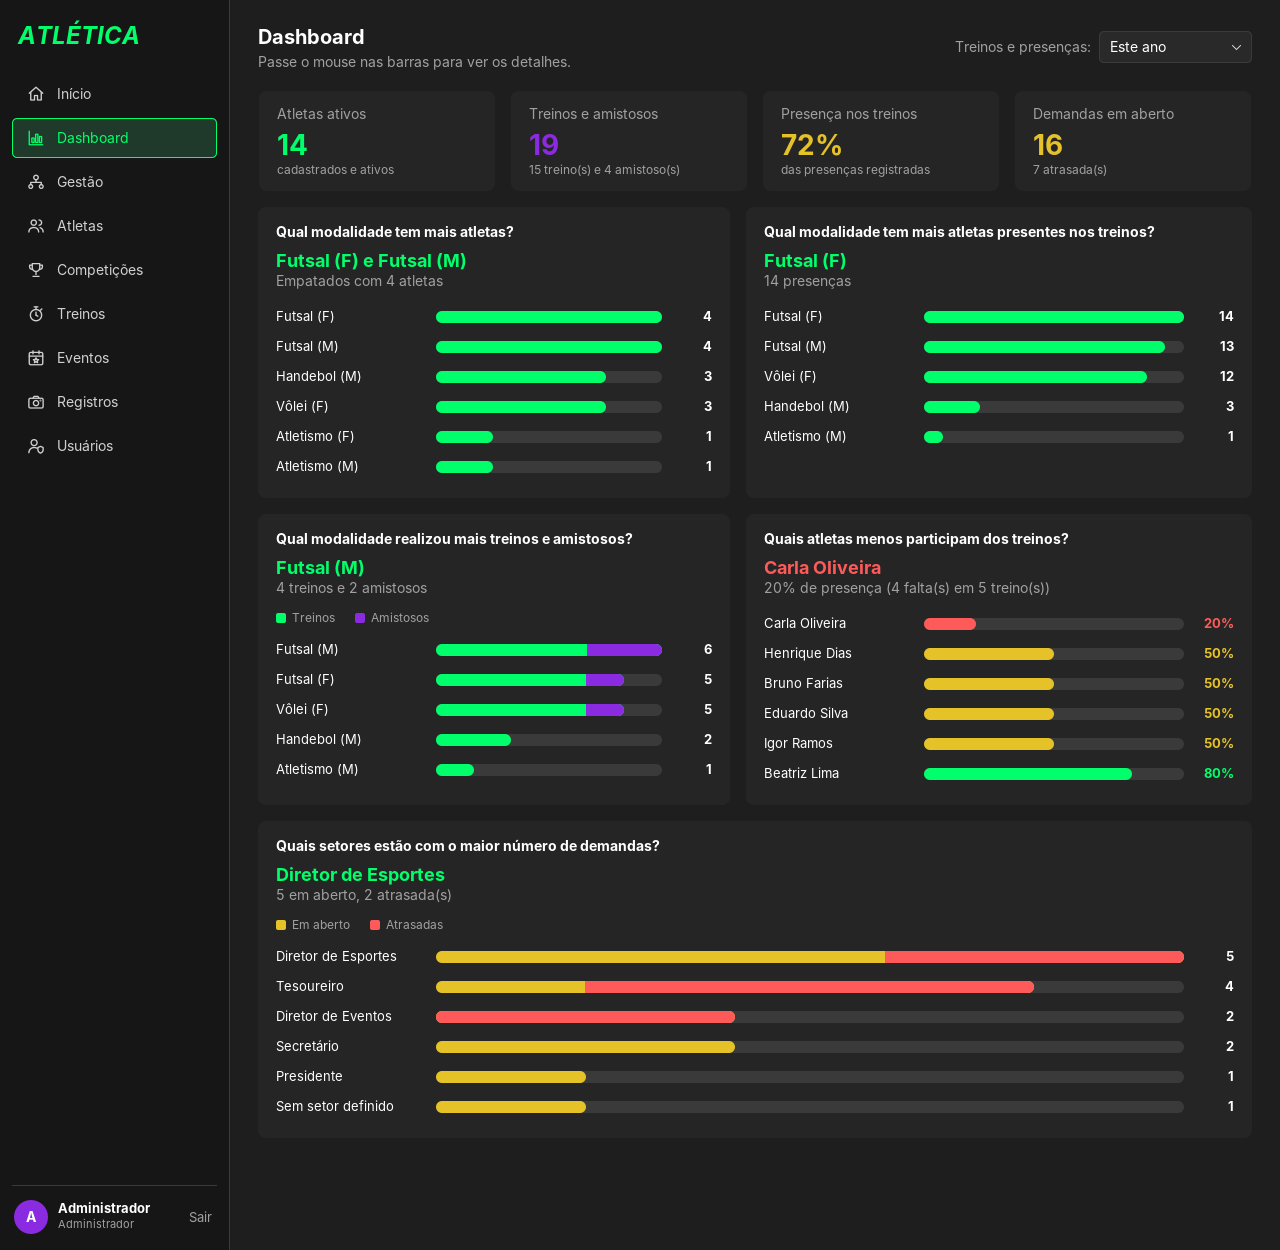
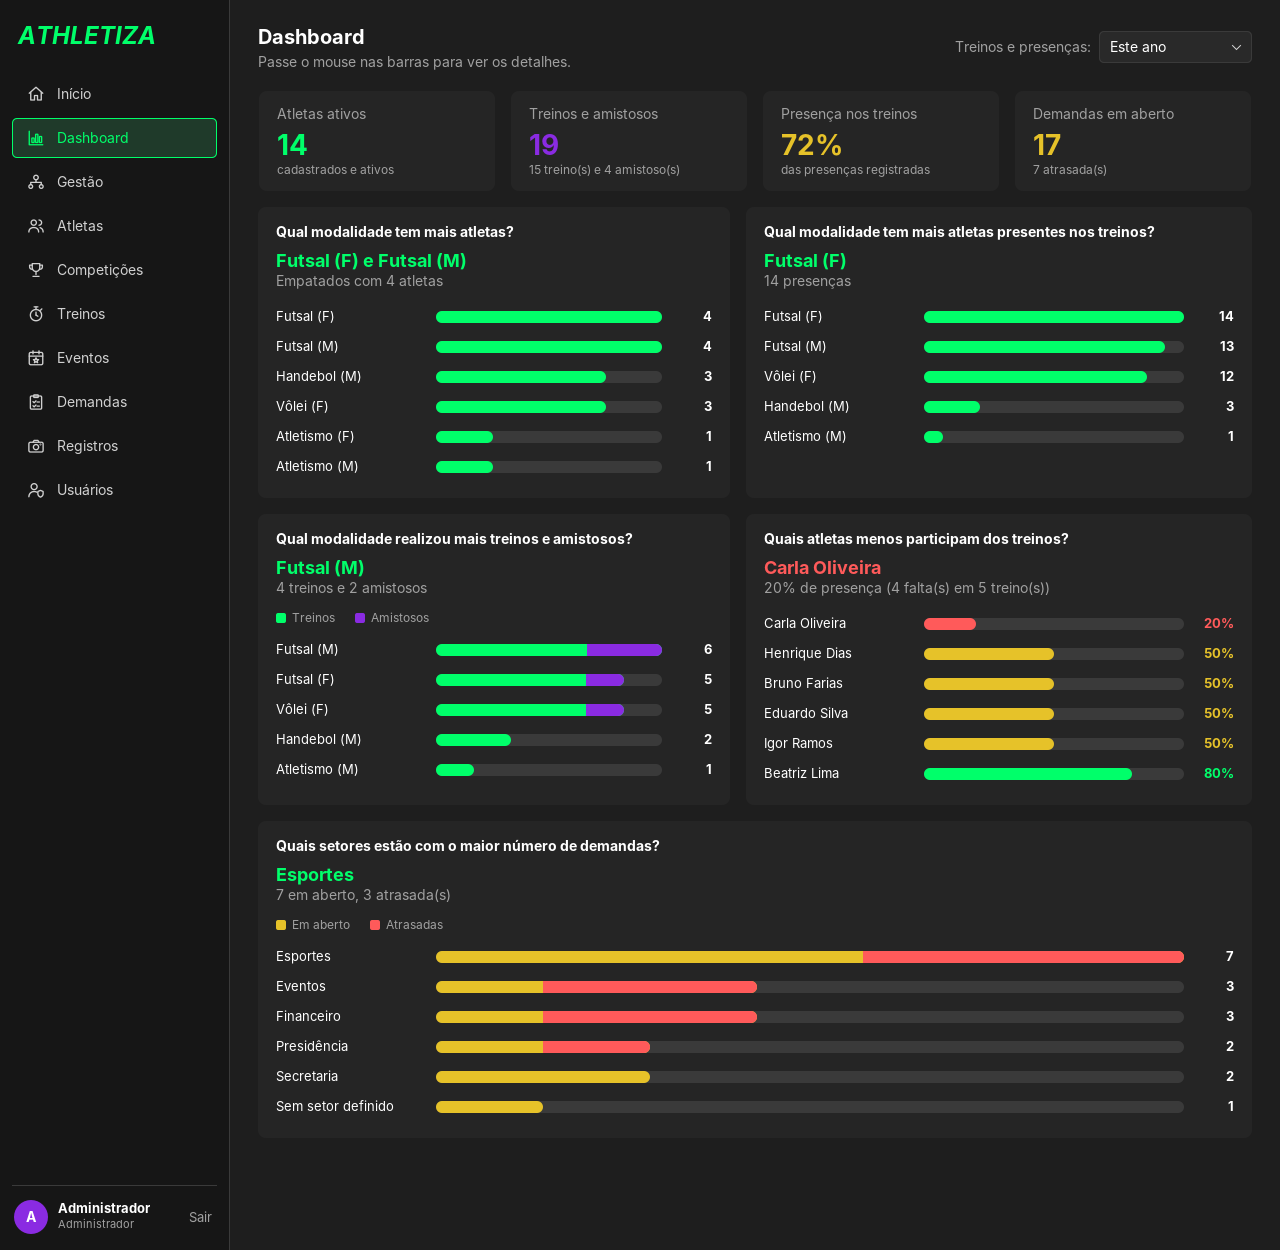
Dashboard: setores com mais demandas pelo módulo Demandas
- O gráfico de setores conta as demandas abertas ou em andamento (tabela
  demanda), pelo Setor dos cargos dos responsáveis na gestão em andamento;
  sem responsável com setor, vale o setor do evento ou da competição
- Demanda com responsáveis de setores diferentes conta em cada setor; o total
  do topo conta cada demanda uma vez
- 03_dados_dashboard.sql: demandas com responsáveis de vários setores no lugar
  das tarefas, e USE athletiza como nos outros scripts
- Testes: setores das demandas e Dashboard oculto para assessores
- Manual, README e imagem da tela atualizados

Claude-Session: https://claude.ai/code/session_01VntTQpz34n6oKR1BDmLzo7

diff --git a/src/main/java/br/com/athletiza/controller/DashboardController.java b/src/main/java/br/com/athletiza/controller/DashboardController.java
@@ -8,11 +8,14 @@ import br.com.athletiza.model.DadosDashboard;
 import br.com.athletiza.model.DadosDashboard.Resumo;
 import br.com.athletiza.model.Frequencia;
 import br.com.athletiza.model.Indicador;
+import br.com.athletiza.model.Setor;
 import java.time.LocalDate;
 import java.util.Comparator;
 import java.util.List;
 import java.util.Map;
+import java.util.Set;
 import java.util.TreeMap;
+import java.util.TreeSet;
 
 /**
  * Indicadores do dashboard. Responde às perguntas:
@@ -23,8 +26,8 @@ import java.util.TreeMap;
  * <li>Quais atletas menos participam dos treinos?</li>
  * <li>Quais setores estão com o maior número de demandas?</li>
  * </ul>
- * Setor é o cargo que o responsável pela tarefa ocupa na gestão em andamento
- * (ex.: Diretor de Eventos); demanda é uma tarefa de evento ou competição ainda não concluída.
+ * Demandas são as do módulo Demandas, abertas ou em andamento; o setor vem dos cargos
+ * dos responsáveis na gestão em andamento (ex.: Esportes, Eventos, Financeiro).
  */
 public class DashboardController {
 
@@ -50,10 +53,11 @@ public class DashboardController {
         List<Indicador> demandas = demandasPorSetor(hoje);
         int totalTreinos = treinos.stream().mapToInt(Indicador::valor).sum();
         int amistosos = treinos.stream().mapToInt(Indicador::parcial).sum();
+        // Total pelas demandas (não pela soma dos setores: uma demanda pode contar em dois setores)
+        List<DemandaAberta> abertas = dao.demandasAbertas();
         Resumo resumo = new Resumo(dao.contarAtletasAtivos(), totalTreinos - amistosos, amistosos,
-                dao.percentualPresenca(inicio, hoje),
-                demandas.stream().mapToInt(Indicador::valor).sum(),
-                demandas.stream().mapToInt(Indicador::parcial).sum());
+                dao.percentualPresenca(inicio, hoje), abertas.size(),
+                (int) abertas.stream().filter(d -> d.prazo() != null && d.prazo().isBefore(hoje)).count());
         return new DadosDashboard(resumo,
                 ordenar(dao.atletasPorModalidade()),
                 ordenar(dao.presencasPorModalidade(inicio, hoje)),
@@ -67,17 +71,31 @@ public class DashboardController {
         return treinoDAO.frequencia(null, inicio, hoje).stream().sorted(MENOS_FREQUENTE).toList();
     }
 
-    /** Demandas em aberto agrupadas pelo setor do responsável; o parcial é quantas já passaram do prazo. */
+    /**
+     * Demandas abertas ou em andamento agrupadas por setor; o parcial é quantas já passaram do prazo.
+     * O setor de uma demanda é o dos cargos dos seus responsáveis na gestão em andamento. Sem
+     * responsável com setor, vale o setor da atividade relacionada (tipo do evento, ou Esportes
+     * para competições). Uma demanda com responsáveis de setores diferentes conta uma vez em cada setor.
+     */
     public List<Indicador> demandasPorSetor(LocalDate hoje) throws PersistenciaException {
-        Map<Integer, String> setorDoMembro = dao.setorDosMembros();
+        Map<Integer, Set<Setor>> setoresDoMembro = dao.setoresDosMembros();
+        Map<Integer, List<Integer>> responsaveis = dao.responsaveisDasDemandas();
         Map<String, int[]> porSetor = new TreeMap<>();
         for (DemandaAberta demanda : dao.demandasAbertas()) {
-            String setor = demanda.responsavelId() == null ? SEM_SETOR
-                    : setorDoMembro.getOrDefault(demanda.responsavelId(), SEM_SETOR);
-            int[] contagem = porSetor.computeIfAbsent(setor, s -> new int[2]);
-            contagem[0]++;
-            if (demanda.prazo() != null && demanda.prazo().isBefore(hoje)) {
-                contagem[1]++;
+            Set<String> setores = new TreeSet<>();
+            for (int membro : responsaveis.getOrDefault(demanda.id(), List.of())) {
+                setoresDoMembro.getOrDefault(membro, Set.of()).forEach(s -> setores.add(s.getDescricao()));
+            }
+            if (setores.isEmpty()) {
+                setores.add(demanda.setorDaAtividade() == null ? SEM_SETOR : demanda.setorDaAtividade().getDescricao());
+            }
+            boolean atrasada = demanda.prazo() != null && demanda.prazo().isBefore(hoje);
+            for (String setor : setores) {
+                int[] contagem = porSetor.computeIfAbsent(setor, s -> new int[2]);
+                contagem[0]++;
+                if (atrasada) {
+                    contagem[1]++;
+                }
             }
         }
         return ordenar(porSetor.entrySet().stream()

diff --git a/src/main/java/br/com/athletiza/dao/DashboardDAO.java b/src/main/java/br/com/athletiza/dao/DashboardDAO.java
@@ -4,11 +4,15 @@ import br.com.athletiza.exception.PersistenciaException;
 import br.com.athletiza.model.Genero;
 import br.com.athletiza.model.Indicador;
 import br.com.athletiza.model.Modalidade;
+import br.com.athletiza.model.Setor;
+import br.com.athletiza.model.TipoEvento;
 import java.time.LocalDate;
 import java.util.ArrayList;
+import java.util.EnumSet;
 import java.util.HashMap;
 import java.util.List;
 import java.util.Map;
+import java.util.Set;
 
 /**
  * Consultas de totais que alimentam o dashboard. Os períodos vão de {@code inicio}
@@ -16,8 +20,11 @@ import java.util.Map;
  */
 public class DashboardDAO extends DAOBase {
 
-    /** Demanda em aberto: tarefa não concluída e quem é o responsável por ela. */
-    public record DemandaAberta(Integer responsavelId, LocalDate prazo) {
+    /**
+     * Demanda em aberto (aberta ou em andamento), com o setor da atividade relacionada:
+     * o do tipo do evento, Esportes para competições, ou nulo se não houver relação.
+     */
+    public record DemandaAberta(int id, LocalDate prazo, Setor setorDaAtividade) {
     }
 
     @Override
@@ -88,24 +95,39 @@ public class DashboardDAO extends DAOBase {
         return consultar("SELECT COUNT(*) FROM atleta WHERE situacao = 'ATIVO'", rs -> rs.getInt(1)).get(0);
     }
 
-    /** Tarefas de eventos e competições ainda não concluídas. */
+    /** Demandas abertas ou em andamento. */
     public List<DemandaAberta> demandasAbertas() throws PersistenciaException {
-        return consultar("SELECT responsavel_id, prazo FROM tarefa WHERE situacao <> 'CONCLUIDA'", rs -> {
-            int responsavel = rs.getInt("responsavel_id");
-            return new DemandaAberta(rs.wasNull() ? null : responsavel, lerData(rs, "prazo"));
+        return consultar("SELECT d.id, d.prazo, d.competicao_id, e.tipo_evento FROM demanda d"
+                + " LEFT JOIN evento e ON e.id = d.evento_id"
+                + " WHERE d.situacao IN ('ABERTA', 'EM_ANDAMENTO')", rs -> {
+                    TipoEvento tipo = lerEnum(rs, "tipo_evento", TipoEvento.class);
+                    rs.getInt("competicao_id");
+                    Setor setor = !rs.wasNull() ? Setor.ESPORTES : tipo == null ? null : tipo.getSetor();
+                    return new DemandaAberta(rs.getInt("id"), lerData(rs, "prazo"), setor);
+                });
+    }
+
+    /** Membros responsáveis por cada demanda (id da demanda -> ids dos membros). */
+    public Map<Integer, List<Integer>> responsaveisDasDemandas() throws PersistenciaException {
+        Map<Integer, List<Integer>> responsaveis = new HashMap<>();
+        consultar("SELECT demanda_id, membro_id FROM demanda_responsavel", rs -> {
+            responsaveis.computeIfAbsent(rs.getInt("demanda_id"), id -> new ArrayList<>()).add(rs.getInt("membro_id"));
+            return null;
         });
+        return responsaveis;
     }
 
     /**
-     * Setor (cargo) de cada membro na gestão em andamento. Quem ocupa mais de um
-     * cargo fica com o de nível mais alto no organograma.
+     * Setores de cada membro na gestão em andamento, pelos cargos que ocupa
+     * (cargos sem setor não entram).
      */
-    public Map<Integer, String> setorDosMembros() throws PersistenciaException {
-        Map<Integer, String> setores = new HashMap<>();
-        consultar("SELECT gmc.membro_id, c.nome FROM gestao_membro_cargo gmc"
+    public Map<Integer, Set<Setor>> setoresDosMembros() throws PersistenciaException {
+        Map<Integer, Set<Setor>> setores = new HashMap<>();
+        consultar("SELECT gmc.membro_id, c.setor FROM gestao_membro_cargo gmc"
                 + " JOIN gestao g ON g.id = gmc.gestao_id JOIN cargo c ON c.id = gmc.cargo_id"
-                + " WHERE g.situacao = 'EM_ANDAMENTO' ORDER BY g.data_inicio DESC, c.ordem, c.nome", rs -> {
-                    setores.putIfAbsent(rs.getInt("membro_id"), rs.getString("nome"));
+                + " WHERE g.situacao = 'EM_ANDAMENTO' AND c.setor IS NOT NULL", rs -> {
+                    setores.computeIfAbsent(rs.getInt("membro_id"), id -> EnumSet.noneOf(Setor.class))
+                            .add(lerEnum(rs, "setor", Setor.class));
                     return null;
                 });
         return setores;

diff --git a/src/test/java/br/com/athletiza/controller/DashboardControllerTest.java b/src/test/java/br/com/athletiza/controller/DashboardControllerTest.java
@@ -66,19 +66,31 @@ class DashboardControllerTest {
     }
 
     @Test
-    void agrupaDemandasAbertasPeloSetorDoResponsavel() throws Exception {
+    void agrupaDemandasAbertasPeloSetorDosResponsaveis() throws Exception {
         try (Connection con = ConnectionFactory.getConnection(); Statement st = con.createStatement()) {
-            st.execute("INSERT INTO tarefa (evento_id, descricao, situacao)"
-                    + " SELECT id, 'Sem responsável', 'PENDENTE' FROM evento WHERE titulo = 'Festa Atlética'");
+            // sem responsável e sem relação: sem setor; concluída: não conta
+            st.execute("INSERT INTO demanda (titulo, situacao) VALUES ('Sem dono', 'ABERTA')");
+            st.execute("INSERT INTO demanda (titulo, situacao) VALUES ('Já feita', 'CONCLUIDA')");
+            // sem responsável, ligada a uma competição: conta para Esportes
+            st.execute("INSERT INTO demanda (titulo, situacao, prazo, competicao_id)"
+                    + " SELECT 'Inscrições', 'ABERTA', '2026-10-01', id FROM competicao WHERE titulo = 'Torneio Interno'");
         }
 
-        List<Indicador> setores = controller.demandasPorSetor(LocalDate.of(2026, 10, 8));
+        List<Indicador> setores = controller.demandasPorSetor(LocalDate.of(2026, 10, 22));
 
-        // "Contratar DJ" (Diretor de Eventos) venceu em 05/10; "Vender ingressos" (Tesoureiro) vence em 11/10
-        assertEquals(new Indicador("Diretor de Eventos", 1, 1, "1 em aberto, 1 atrasada(s)"), setores.get(0));
-        assertEquals("Sem setor definido", setores.get(1).nome());
-        assertEquals("Tesoureiro", setores.get(2).nome());
-        assertEquals(0, setores.get(2).parcial());
+        // "Reservar ônibus" (Juliana, Esportes, prazo 25/10) + "Inscrições" (pela competição, atrasada)
+        assertEquals(new Indicador("Esportes", 2, 1, "2 em aberto, 1 atrasada(s)"), setores.get(0));
+        // "Arrecadar alimentos" tem responsáveis de Eventos e da Presidência: conta nos dois (atrasada desde 20/10)
+        assertTrue(setores.contains(new Indicador("Eventos", 1, 1, "1 em aberto, 1 atrasada(s)")));
+        assertTrue(setores.contains(new Indicador("Presidência", 1, 1, "1 em aberto, 1 atrasada(s)")));
+        assertTrue(setores.contains(new Indicador("Financeiro", 1, 0, "1 em aberto, 0 atrasada(s)")));
+        assertTrue(setores.contains(new Indicador("Sem setor definido", 1, 0, "1 em aberto, 0 atrasada(s)")));
+        assertEquals(5, setores.size());
+
+        // No topo, cada demanda conta uma vez só
+        DadosDashboard dados = controller.carregar(null, LocalDate.of(2026, 10, 22));
+        assertEquals(5, dados.resumo().demandasAbertas());
+        assertEquals(2, dados.resumo().demandasAtrasadas());
     }
 
     @Test
@@ -90,7 +102,7 @@ class DashboardControllerTest {
         assertEquals("Futsal (F)", dados.atletasPorModalidade().get(0).nome());
         assertEquals("Futsal (M)", dados.treinosPorModalidade().get(0).nome());
         assertEquals(6, dados.treinosPorModalidade().get(0).valor());
-        assertEquals("Diretor de Esportes", dados.demandasPorSetor().get(0).nome());
+        assertEquals("Esportes", dados.demandasPorSetor().get(0).nome());
         assertTrue(dados.menosFrequentes().get(0).getPercentual() < 50);
         assertTrue(dados.presencasPorModalidade().size() >= 4);
     }

diff --git a/src/test/java/br/com/athletiza/model/AcessoTest.java b/src/test/java/br/com/athletiza/model/AcessoTest.java
@@ -52,6 +52,7 @@ class AcessoTest {
 
         assertTrue(esportes.veModulo(Modulo.GESTAO));
         assertTrue(esportes.veModulo(Modulo.REGISTROS));
+        assertTrue(esportes.veModulo(Modulo.DASHBOARD));
         assertFalse(esportes.podeAlterar(Modulo.GESTAO));
         assertTrue(esportes.podeAlterar(Modulo.ATLETAS));
         assertTrue(esportes.podeAlterar(Modulo.TREINOS));
@@ -96,6 +97,7 @@ class AcessoTest {
         assertTrue(assessor.veModulo(Modulo.EVENTOS));
         assertFalse(assessor.veModulo(Modulo.GESTAO));
         assertFalse(assessor.veModulo(Modulo.DEMANDAS));
+        assertFalse(assessor.veModulo(Modulo.DASHBOARD));
         assertFalse(assessor.podeAlterar(Modulo.ATLETAS));
         assertFalse(assessor.podeAlterar(jiudesc));
         assertTrue(assessor.tiposDeEvento().isEmpty());

diff --git a/src/main/java/br/com/athletiza/view/dashboard/PainelDashboard.java b/src/main/java/br/com/athletiza/view/dashboard/PainelDashboard.java
@@ -128,7 +128,7 @@ public class PainelDashboard extends JPanel implements Recarregavel {
         cartaoTreinos.mostrar(dados.treinosPorModalidade(), Indicador::detalhe,
                 "Nenhum treino ou amistoso realizado no período.");
         cartaoDemandas.mostrar(dados.demandasPorSetor(), Indicador::detalhe,
-                "Nenhuma tarefa em aberto. Tudo em dia!");
+                "Nenhuma demanda em aberto. Tudo em dia!");
         cartaoFrequencia.mostrarAtletas(dados.menosFrequentes());
     }
 

diff --git a/docs/manual.md b/docs/manual.md
@@ -60,10 +60,13 @@ posições. Passe o mouse sobre uma barra para ver os detalhes.
 - **Qual modalidade realizou mais treinos e amistosos?** Treinos (verde) e amistosos (roxo) que já aconteceram.
 - **Quais atletas menos participam dos treinos?** Frequência de cada atleta, da menor para a maior
   (vermelho abaixo de 50%, amarelo até 75%, verde acima).
-- **Quais setores estão com o maior número de demandas?** Tarefas de eventos e competições não concluídas,
-  agrupadas pelo cargo que o responsável ocupa na gestão em andamento (ex.: Diretor de Eventos).
-  A parte vermelha da barra são as atrasadas. Tarefas sem responsável, ou cujo responsável não tem cargo
-  na gestão atual, aparecem em *Sem setor definido*.
+- **Quais setores estão com o maior número de demandas?** Demandas abertas ou em andamento (módulo
+  **Demandas**), agrupadas pelo setor dos cargos dos responsáveis na gestão em andamento (Esportes, Eventos,
+  Financeiro...). A parte vermelha da barra são as atrasadas. Uma demanda com responsáveis de setores
+  diferentes conta em cada um deles (no número do topo, conta uma vez só). Sem responsável com setor, vale o
+  setor do evento ou competição relacionado; sem nenhum dos dois, aparece em *Sem setor definido*.
+- O Dashboard aparece para administrador, presidência e diretores; assessores não o veem, porque ele
+  mostra os dados de todos os setores.
 - O filtro **Treinos e presenças** (últimos 30 dias, 90 dias, este ano ou todo o período) vale para os
   treinos, amistosos e presenças. Atletas e demandas mostram sempre a situação atual.
 - Para ver o dashboard com mais dados, execute o script opcional `03_dados_dashboard.sql` (veja o README).

diff --git a/README.md b/README.md
@@ -42,7 +42,7 @@ Para a apresentação:
    - [`01_estrutura.sql`](src/main/resources/sql/01_estrutura.sql): cria as tabelas (pode ser executado de novo para zerar o banco)
    - [`02_dados_exemplo.sql`](src/main/resources/sql/02_dados_exemplo.sql): dados de exemplo do protótipo
    - [`03_dados_dashboard.sql`](src/main/resources/sql/03_dados_dashboard.sql) (opcional, uma vez só): mais atletas,
-     treinos, presenças e tarefas, para os gráficos do **Dashboard** terem o que mostrar
+     treinos, presenças e demandas, para os gráficos do **Dashboard** terem o que mostrar
 3. Na raiz do projeto, copie `db.properties.example` para `db.properties` e coloque a senha do root do seu MySQL.
    Esse arquivo não vai para o Git (cada integrante tem o seu).
 
